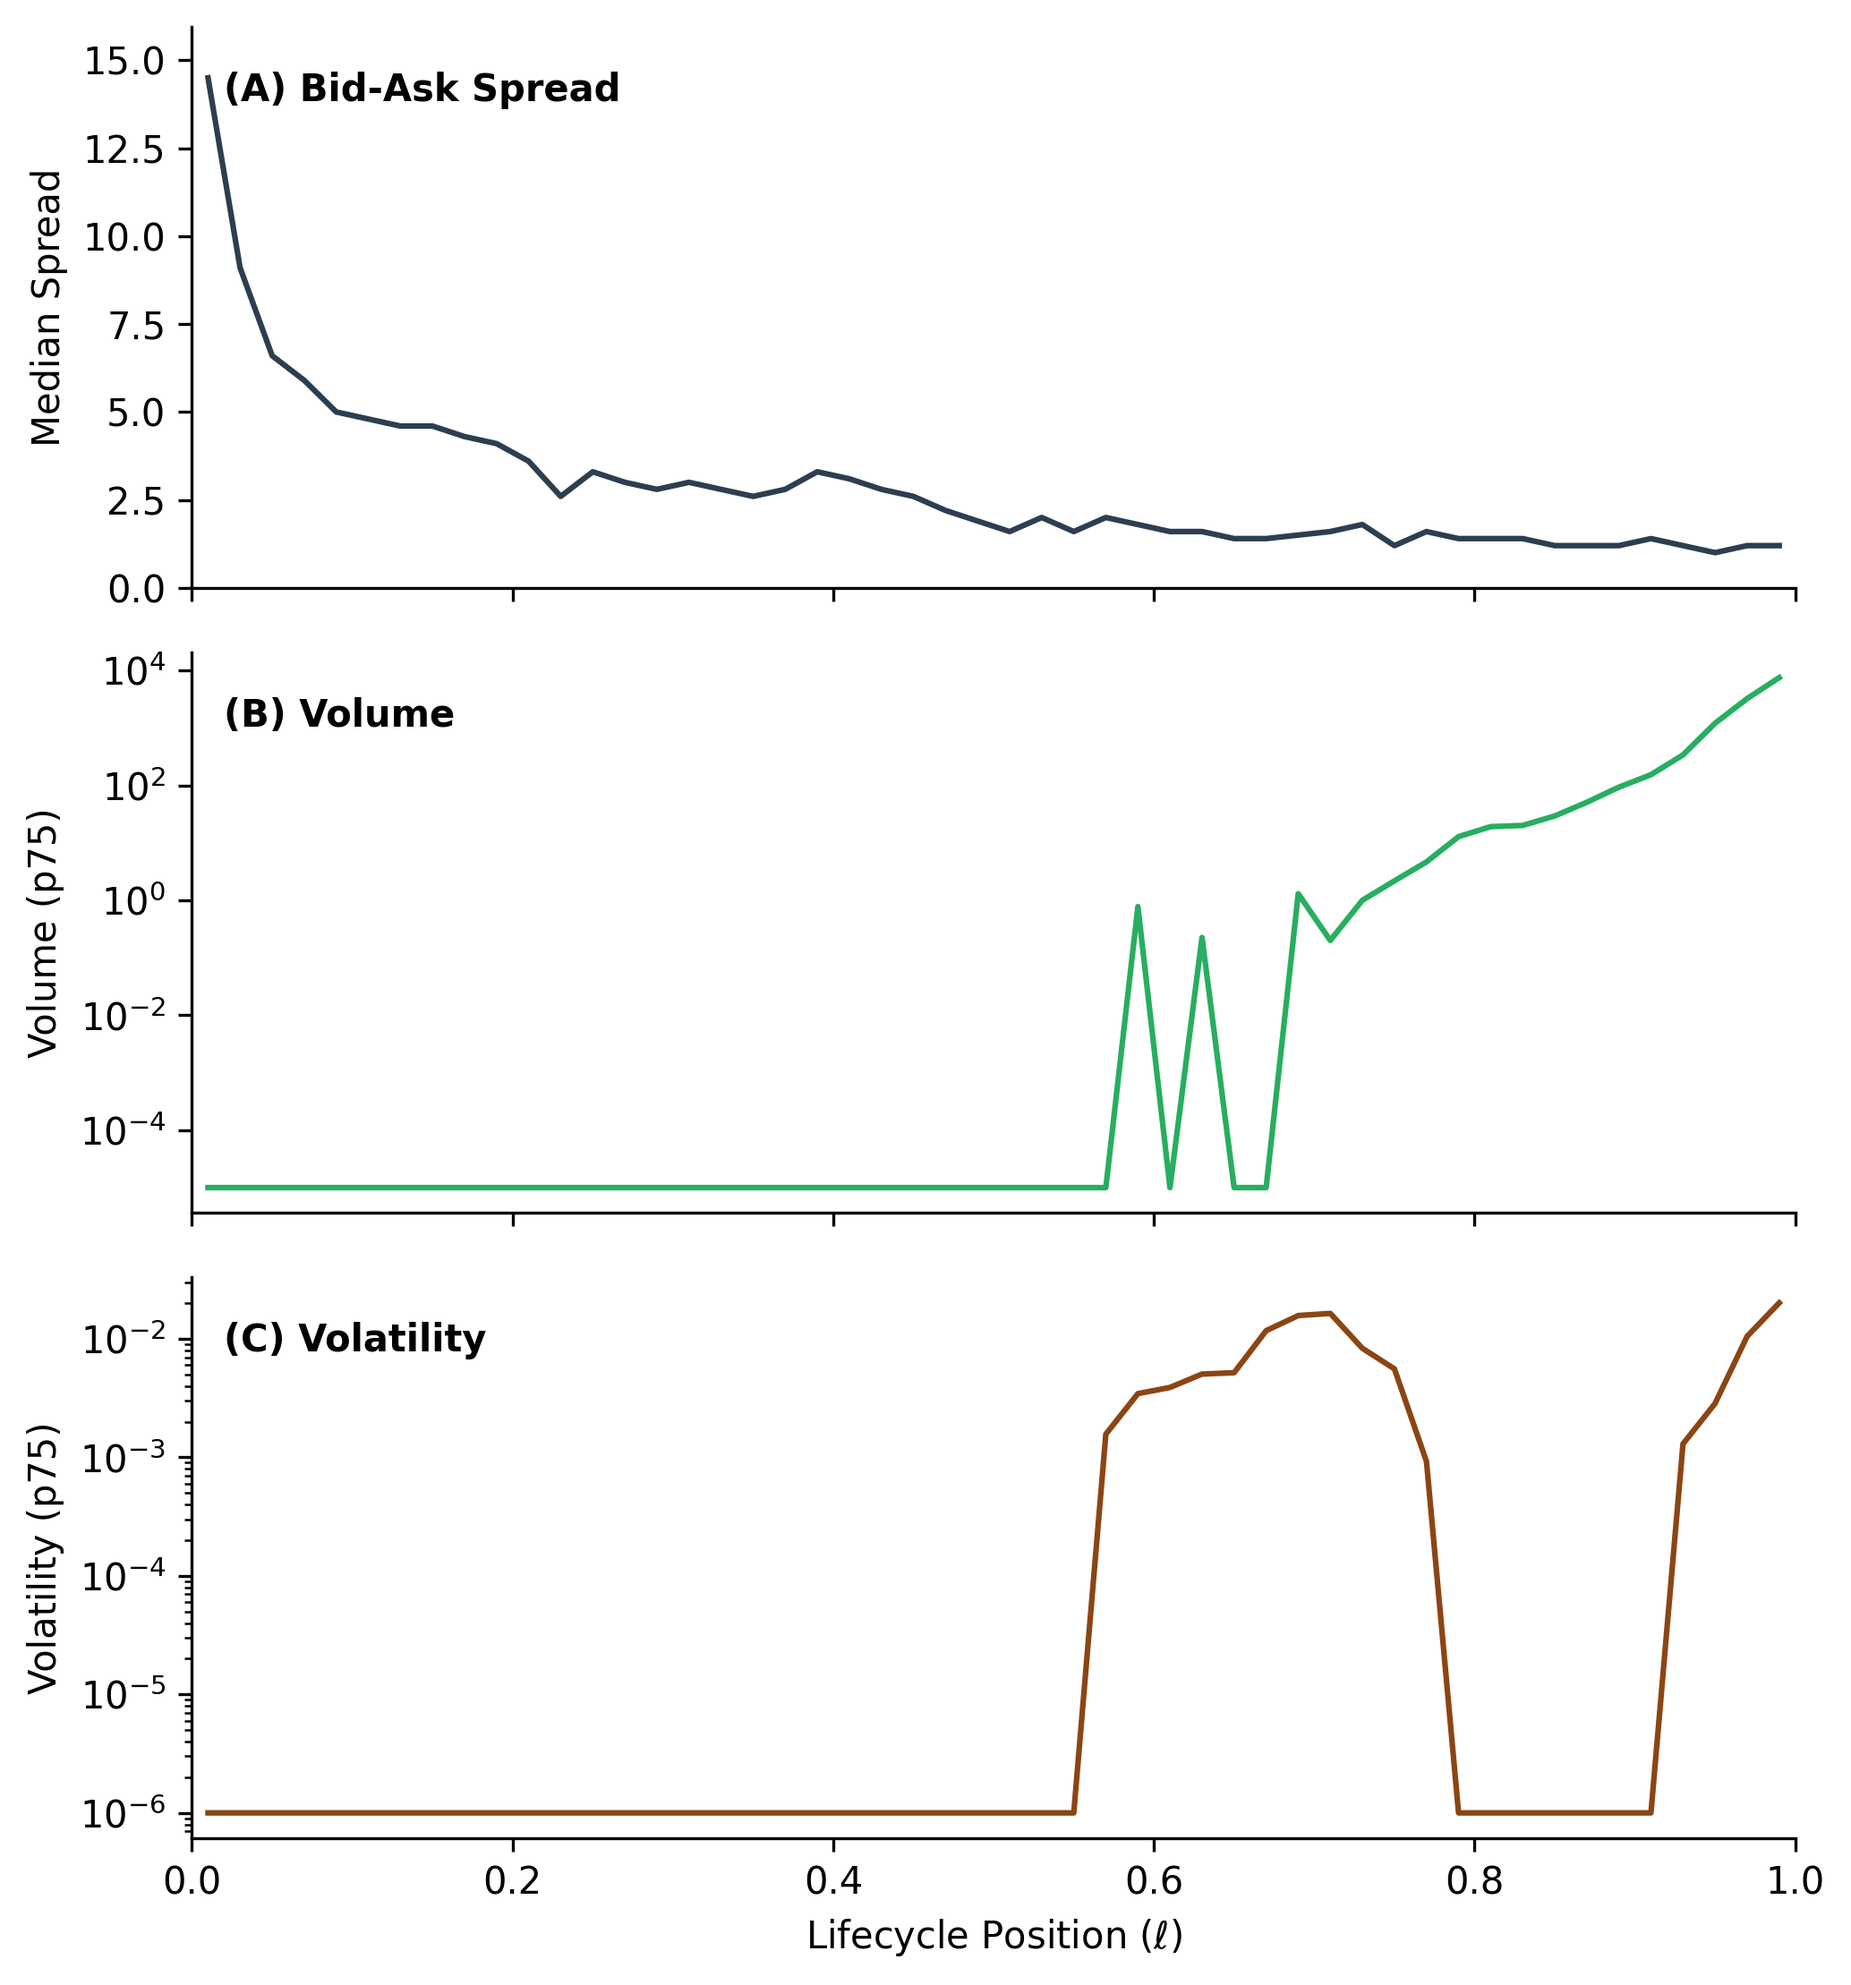
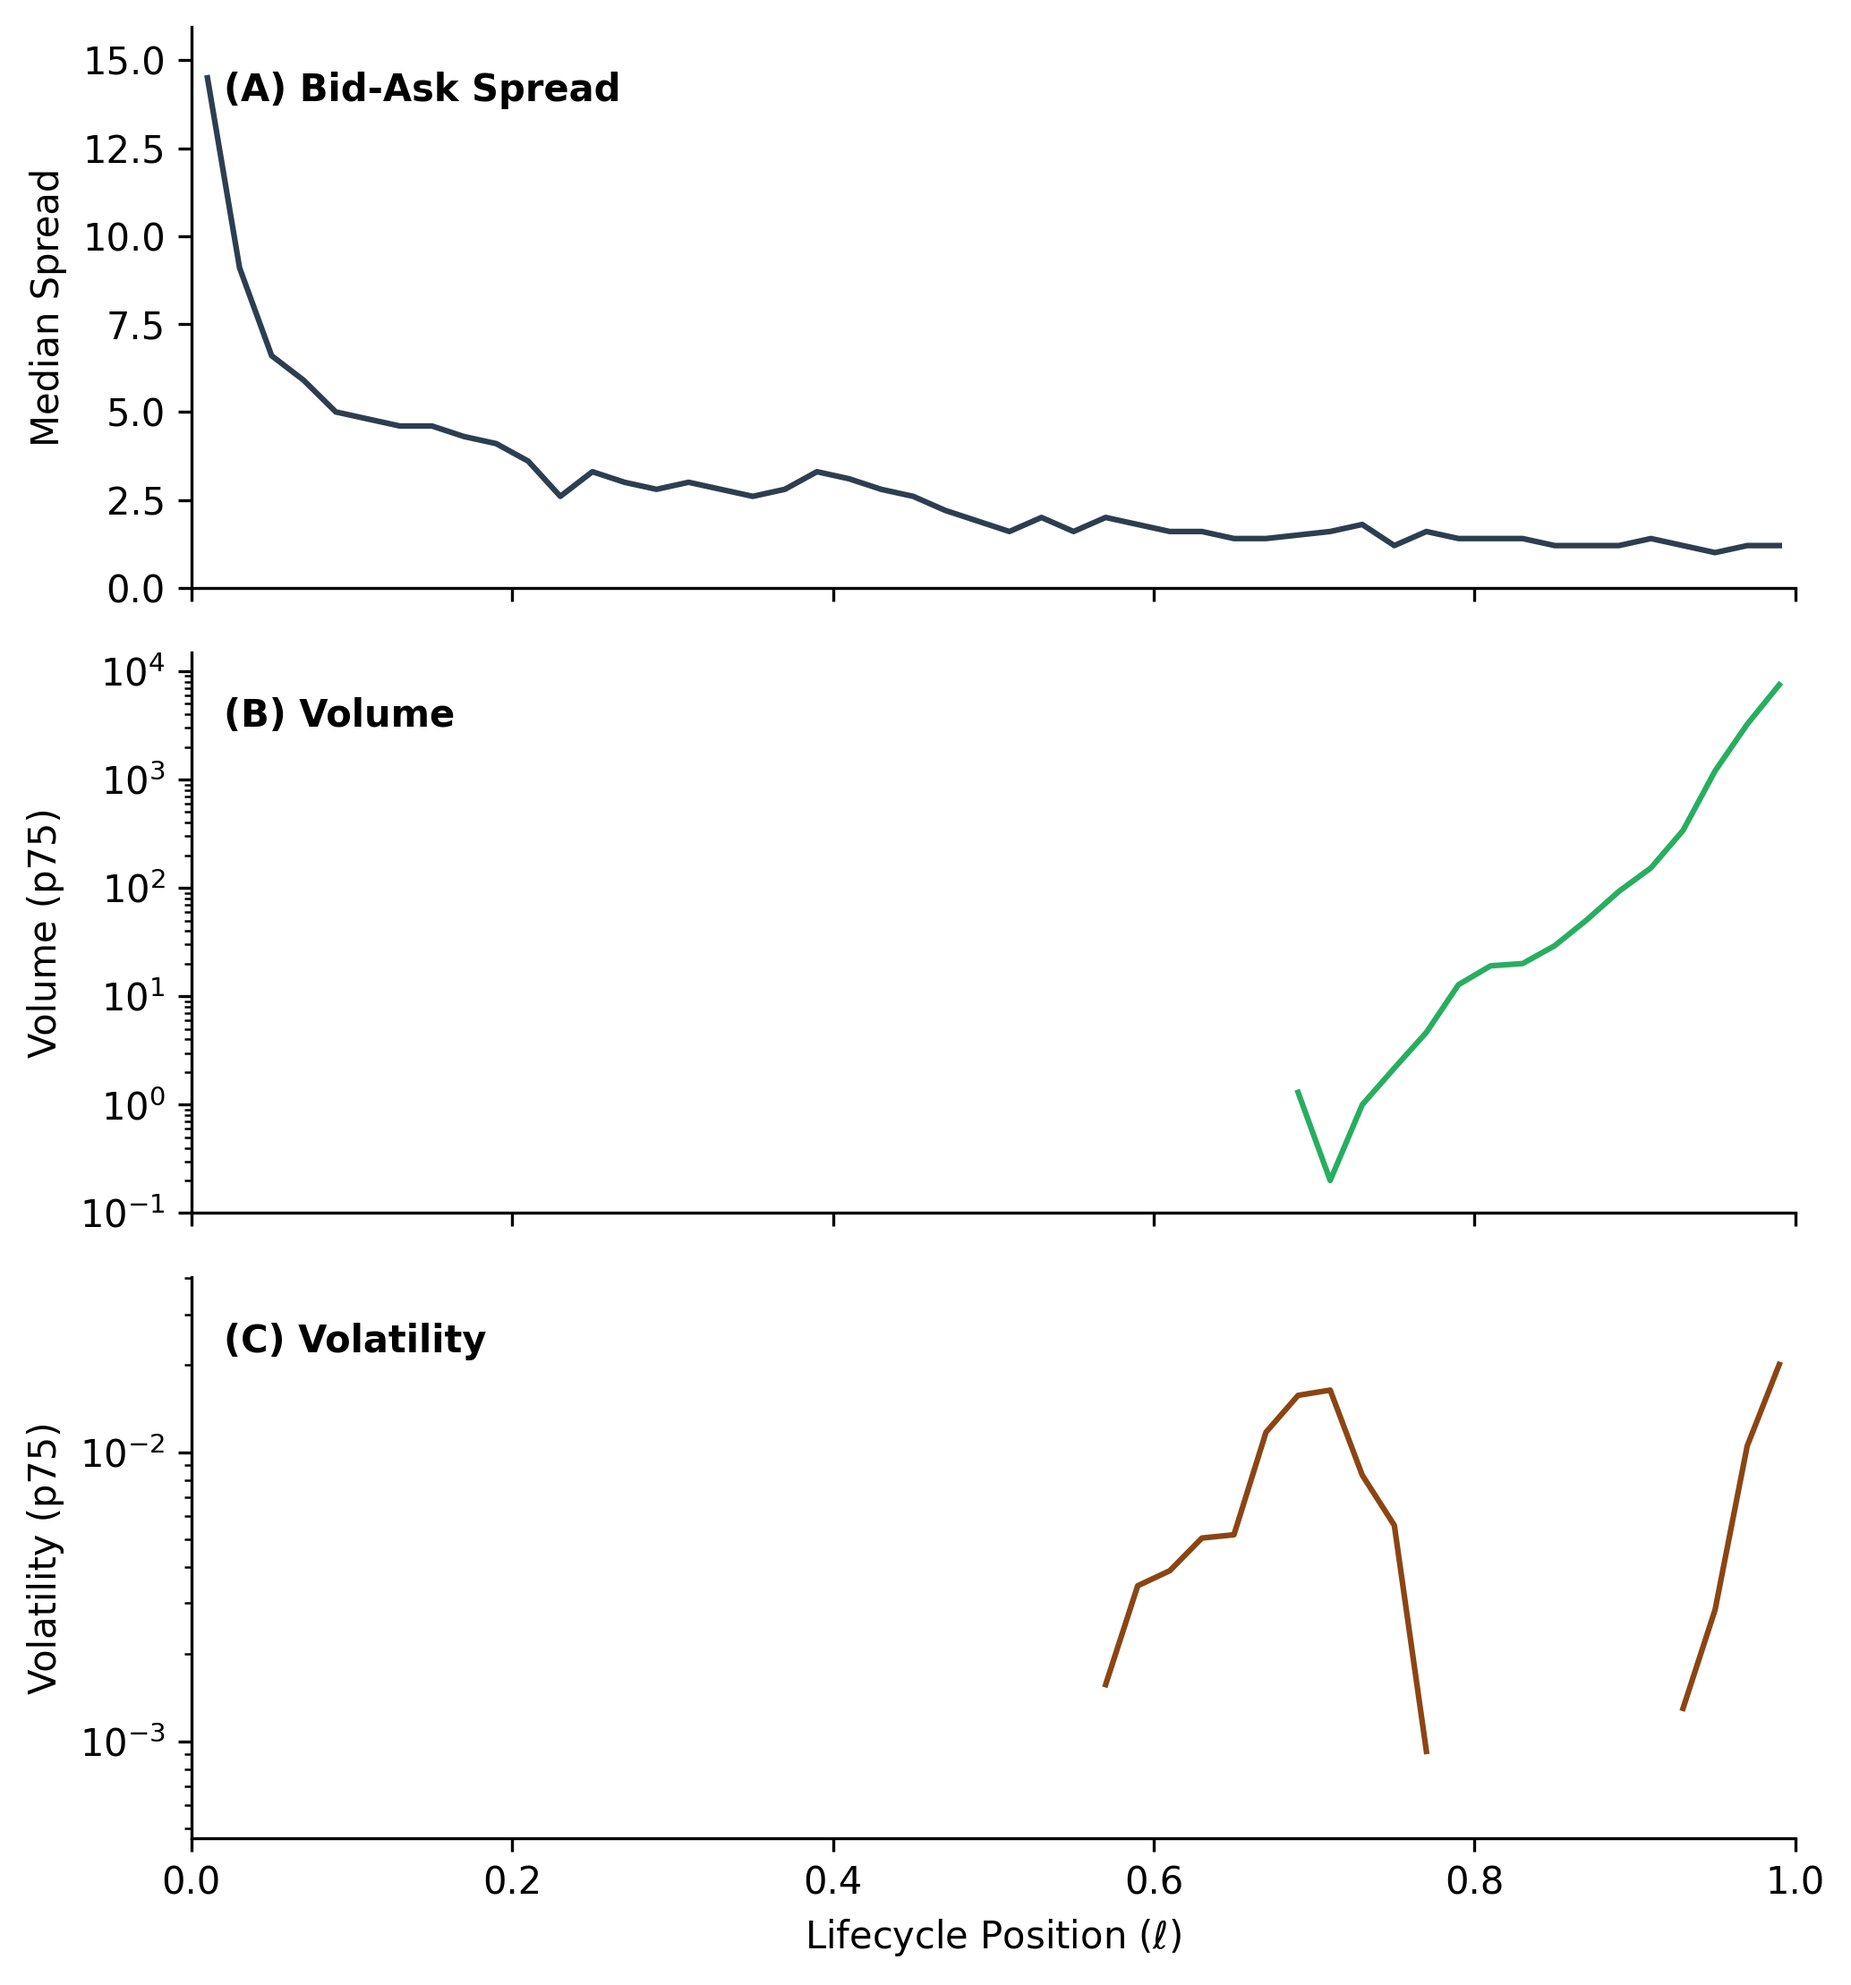
Fix x-axis scaling in lifecycle figure by properly handling zero values on log scale (#10)
Replace misleading floor values with NaN to break the line where data doesn't exist, and set appropriate y-axis limits based on actual data range. This fixes the issue where volume and volatility lines appeared flat on the x-axis in early lifecycle stages.

diff --git a/scripts/generate_lifecycle_figure.py b/scripts/generate_lifecycle_figure.py
@@ -45,20 +45,14 @@ def generate_lifecycle_figure(
     # Sort by lifecycle position
     agg_data = agg_data.sort_values("lifecycle_ratio")
 
-    # Handle zeros and NaN for log scale - replace with small positive value
-    # for volume and volatility to show the pattern
-    volume_floor = 1e-5
-    volatility_floor = 1e-6
-
-    # Replace zeros with floor values for log scale
+    # For log scale, we need to handle zeros carefully
+    # Instead of replacing with floor values (which creates misleading flat lines),
+    # we mask out zero values so they don't appear in the plot
     volume_data = agg_data["volume_p75"].copy()
-    volume_data = volume_data.replace(0, volume_floor).fillna(volume_floor)
-    # Ensure minimum value for log scale
-    volume_data = volume_data.clip(lower=volume_floor)
+    volume_data = volume_data.replace(0, np.nan)  # Replace zeros with NaN to break line
 
     volatility_data = agg_data["volatility_short_p75"].copy()
-    volatility_data = volatility_data.replace(0, volatility_floor).fillna(volatility_floor)
-    volatility_data = volatility_data.clip(lower=volatility_floor)
+    volatility_data = volatility_data.replace(0, np.nan)  # Replace zeros with NaN to break line
 
     # Create figure with 3 vertically stacked panels
     fig, axes = plt.subplots(3, 1, figsize=(7, 7.5), sharex=True)
@@ -99,6 +93,12 @@ def generate_lifecycle_figure(
     ax2.grid(False)
     ax2.spines["top"].set_visible(False)
     ax2.spines["right"].set_visible(False)
+    # Set y-axis limits based on actual non-zero data range
+    valid_volume = volume_data.dropna()
+    if len(valid_volume) > 0:
+        vol_min = valid_volume[valid_volume > 0].min()
+        vol_max = valid_volume.max()
+        ax2.set_ylim(vol_min * 0.5, vol_max * 2)
 
     # Panel C: Volatility (p75, log scale)
     ax3 = axes[2]
@@ -116,6 +116,12 @@ def generate_lifecycle_figure(
     ax3.grid(False)
     ax3.spines["top"].set_visible(False)
     ax3.spines["right"].set_visible(False)
+    # Set y-axis limits based on actual non-zero data range
+    valid_volatility = volatility_data.dropna()
+    if len(valid_volatility) > 0:
+        vol_min = valid_volatility[valid_volatility > 0].min()
+        vol_max = valid_volatility.max()
+        ax3.set_ylim(vol_min * 0.5, vol_max * 2)
 
     # Set x-axis limits
     for ax in axes:
